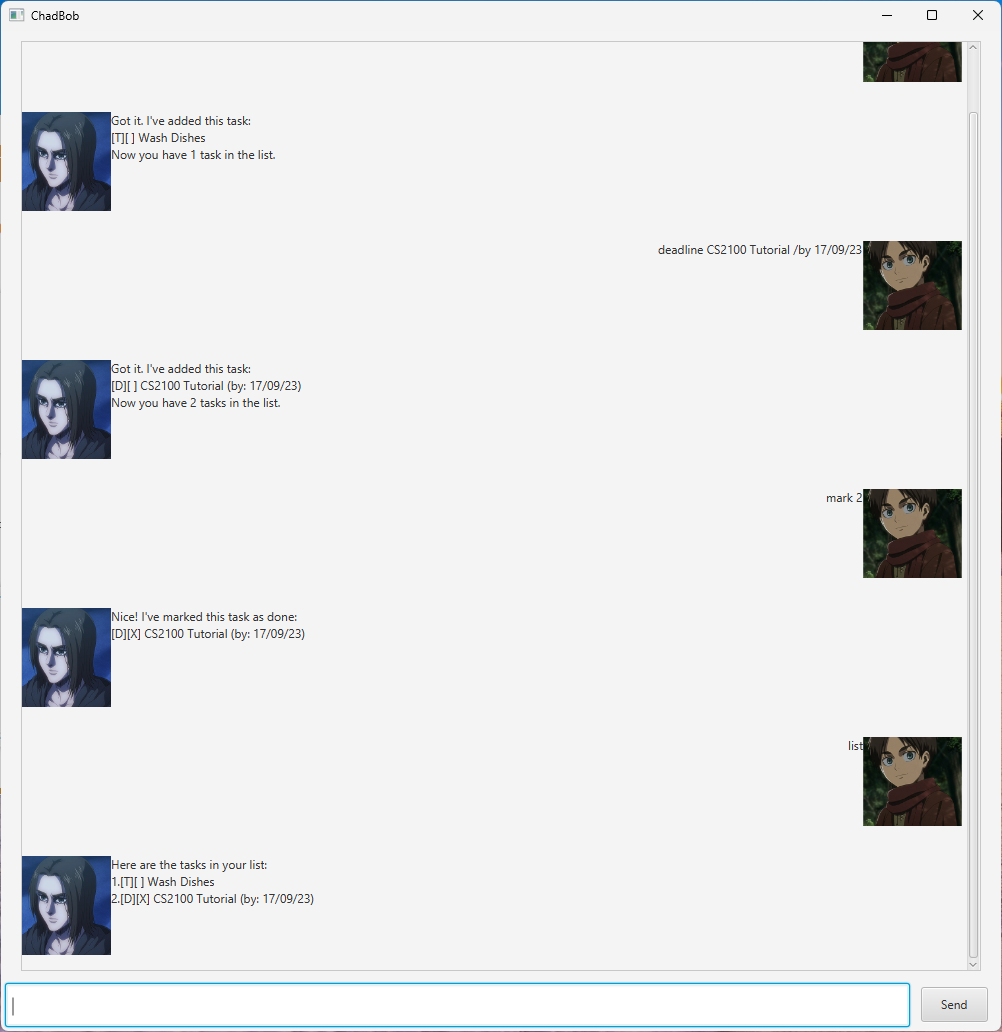
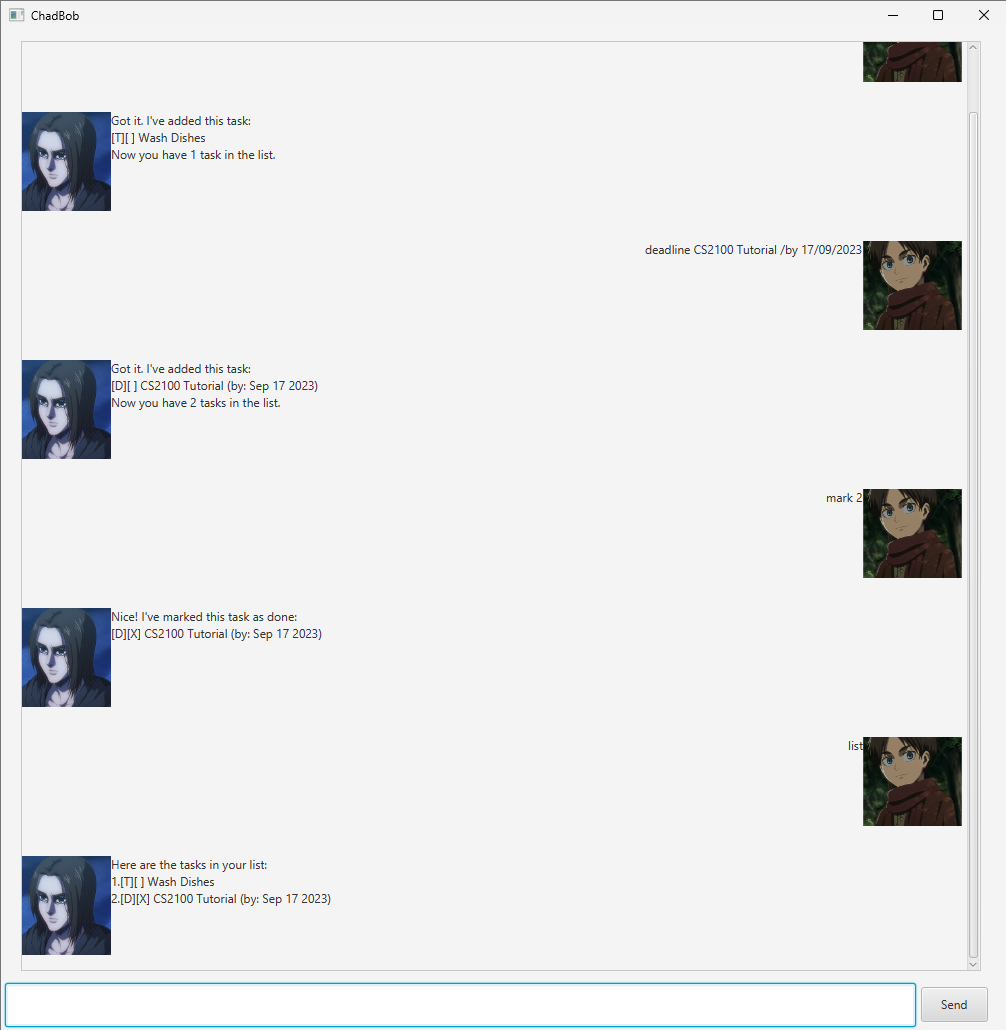
Fix bug in DateTimeFormatter

diff --git a/src/main/java/duke/filemanagement/DateTimeDetector.java b/src/main/java/duke/filemanagement/DateTimeDetector.java
@@ -1,6 +1,7 @@
 package duke.filemanagement;
 
 import java.time.LocalDate;
+import java.time.LocalDateTime;
 import java.time.format.DateTimeFormatter;
 import java.time.format.DateTimeParseException;
 
@@ -64,32 +65,34 @@ public class DateTimeDetector {
      * @return LocalDate that represents parsed date.
      * @throws DateTimeParseException The date given does not follow any of the formats.
      */
-    public LocalDate parseDateWithTime(String date) throws DateTimeParseException {
+    public LocalDateTime parseDateWithTime(String date) throws DateTimeParseException {
         if (is12hFormat(date)) {
             if (isDateSplitWithDash(date)) {
                 if (doesDateStartWithYear(date)) {
                     // date is yyyy-MM-dd hh:mm
-                    return LocalDate.parse(date, t112h);
+                    return LocalDateTime.parse(date, t112h);
                 } else {
                     // date is dd-MMM-yyyy hh:mm
-                    return LocalDate.parse(date, t212h);
+                    return LocalDateTime.parse(date, t212h);
                 }
             } else {
                 // date is dd/MM/yyyy hh:mm
-                return LocalDate.parse(date, t312h);
+                return LocalDateTime.parse(date, t312h);
             }
         } else {
             if (isDateSplitWithDash(date)) {
                 if (doesDateStartWithYear(date)) {
                     // date is yyyy-MM-dd HHmm
-                    return LocalDate.parse(date, t124h);
+                    return LocalDateTime.parse(date, t124h);
                 } else {
                     // date is dd-MMM-yyyy HHmm
-                    return LocalDate.parse(date, t224h);
+                    return LocalDateTime.parse(date, t224h);
                 }
             } else {
                 // date is dd/MM/yyyy HHmm
-                return LocalDate.parse(date, t324h);
+                System.out.println("date is now");
+                System.out.println(date);
+                return LocalDateTime.parse(date, t324h);
             }
         }
     }
@@ -122,14 +125,18 @@ public class DateTimeDetector {
      */
     public String format(String date) {
         LocalDate d;
+        LocalDateTime dt;
         try {
             if (includeTime(date)) {
-                d = parseDateWithTime(date);
+                dt = parseDateWithTime(date);
+                assert dt != null : "d be updated with parsed input date and not null";
+                return dt.format(DateTimeFormatter.ofPattern("MMM dd yyyy HHmm"));
             } else {
                 d = parseDateOnly(date);
+                assert d != null : "d be updated with parsed input date and not null";
+                return d.format(DateTimeFormatter.ofPattern("MMM dd yyyy"));
             }
-            assert d != null : "d be updated with parsed input date and not null";
-            return d.format(DateTimeFormatter.ofPattern("MMM dd yyyy"));
+
         } catch (DateTimeParseException e) {
             return date;
         }
